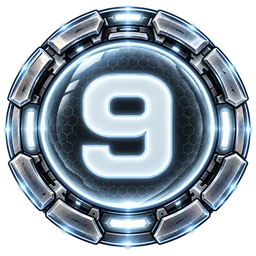
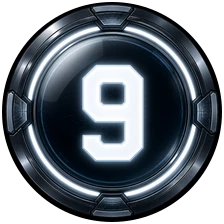
fix(games-service): redraw tokens 9 and 10 in the original token style
Tokens 9 and 10 came from the new art pack and did not match 1-8. Redrawn with the old gunmetal bezel, neon ring and white numeral (9 ice white, 10 lime); pair colours 9 and 10 updated to match. Checked by eye.

diff --git a/games-service/public/play/board.js b/games-service/public/play/board.js
@@ -46,8 +46,10 @@ const PAIR_COLOURS = [
   "#ff4d6d", // rose
   "#2dd4bf", // teal
   "#ffe14d", // yellow
-  "#60a5fa", // light blue
-  "#f472b6", // light pink
+  // Nine and ten follow their tokens (25 Sep 2026): the light blue and light pink they had
+  // were too close to pairs 1 and 2 to tell apart under time pressure.
+  "#e2e8f0", // ice white
+  "#a3e635", // lime
 ];
 
 /**
@@ -55,8 +57,9 @@ const PAIR_COLOURS = [
  *
  * BACK TO THE ORIGINAL TOKENS (owner, 25 September 2026: "I don't like the new numbers on the
  * board, use the old ones"). The four-state `num-{n}-{state}.webp` pack was wired for one day and
- * is no longer referenced for play. Tokens 9 and 10 were added the same day from that pack's idle
- * frames so large boards can show ten distinct numerals.
+ * is no longer referenced for play. Tokens 9 and 10 were first taken from that pack's idle frames
+ * and did not match; the same day they were redrawn in the old set's own style (dark gunmetal
+ * bezel, one neon ring, white blocky numeral), so all ten now read as one set.
  *
  * The states survive as a `data-state` attribute on the token image (`idle`, `select`, `connect`,
  * `error`) which `app.css` lights, so the refusal flash still shows without a second picture per

diff --git a/New games plan/Improve-game.md b/New games plan/Improve-game.md
@@ -13,7 +13,7 @@ This chapter is the working brief for upgrading the **in-frame** Circuit UI afte
 
 | Piece | Live code | Notes |
 |---|---|---|
-| Board + terminals | `board.js`, `board-4/6/8.webp`, `token-1..10.webp`, `board-frame.webp` | Heroes replaced in place from Small/Medium/large; CSS neon pulse on drawn boards; tokens 9–10 added 25 Sep so large can use up to 10 pairs |
+| Board + terminals | `board.js`, `board-4/6/8.webp`, `token-1..10.webp`, `board-frame.webp` | Heroes replaced in place from Small/Medium/large; CSS neon pulse on drawn boards; tokens 9–10 added 25 Sep so large can use up to 10 pairs, redrawn the same day in the old set's style (9 ice white, 10 lime) |
 | Chrome / copy | `index.html`, `app.css`, `presentation.js` | Pre-Phase-B text buttons restored; **no** `ui-*.webp` |
 | Clock | `paintClockDigits` + `digit-0..9.webp` | Sprites are paint; time still from `endsAt` |
 | Sound | `sound.js` sample-then-synth + music bed | OGG map in `SAMPLE_URLS`; mute stops music; **revive on visibility/focus/unlock** after browser pause (25 Sep) |
@@ -143,6 +143,8 @@ Owner disliked Submit / Clear / Timer artwork. Files `ui-*.webp` deleted; markup
 **Band clipping, second pass (25 Sep)** — the 300px band did not cure it: the real cause was the `shape="fill"` picture being an in-flow `h-full` image in a slot with no definite height, so it took its natural height, grew the card past the band and `overflow-hidden` cut the bottom border. The picture is now `absolute inset-0` inside a `relative` sized slot (40% rules / 36% tips), so it can never add height; rules steps wrap to two lines (`line-clamp-2`, test flipped) instead of cutting mid-sentence. Files: `components/neon/Cards.tsx`, `GameRulesPanel.tsx`, `ArenaHighlights.tsx`. Not verified by eye.
 
 **Duplicate "1" tokens (25 Sep)** — owner saw two different pairs both drawn as "1". The code was right (`token-{pairId+1}`, the pink wire was pair 2's colour); the **artwork** was wrong: commit `ef964ff2` replaced `token-1/2/4/5/6.webp` with new-style art where token-2, 5 and 6 show a painted "1" and token-4 shows "7". Restored those five from `ef964ff2~1` (the original matching set, which the owner had asked to keep); 3, 7-10 were already correct. No test can read a painted numeral, so check each token by eye whenever the set is replaced. games-service: pull + `pm2 restart chartvolt-games` (asset fingerprints change, so no cache purge).
+
+**Tokens 9 and 10 redrawn in the old style (25 Sep)** — the owner pointed out that 9 and 10 (silver and rainbow, taken from the new pack) did not match 1-8. Both were redrawn in the old set's theme (gunmetal segmented bezel, one neon ring, dark hex-glass dome, white blocky numeral): 9 ice white, 10 lime, both 224×224 with a circular alpha mask like the rest. `PAIR_COLOURS[8]`/`[9]` in `board.js` now match (`#e2e8f0`, `#a3e635`); the old light blue and light pink were too close to pairs 1 and 2. All ten were checked by eye. Same deploy: pull + `pm2 restart chartvolt-games`.
 
 ---
 

diff --git a/games-service/README.md b/games-service/README.md
@@ -183,7 +183,8 @@ the whole surface fetches nothing but the pictures.
 **The artwork is decoration and the vectors underneath are the game.** `board-frame.webp` is the
 bezel and `token-1.webp`..`token-10.webp` are the terminals (one image per numeral; the idle,
 select, connect and error states are CSS on `data-state`, not separate files - tokens 9 and 10
-were added 25 September 2026 so large boards can use up to ten pairs), but every terminal also draws its own
+were added 25 September 2026 so large boards can use up to ten pairs, drawn in the same style as
+1-8; no test can read a painted numeral, so check every token by eye when the set changes), but every terminal also draws its own
 lit ring and its own numeral in SVG, so an image that fails to arrive costs polish and never
 legibility. That is the only reason it is acceptable to depend on a network fetch inside a paid
 round - and it is why a test pins the numeral, since "the artwork covers it anyway" is exactly the
